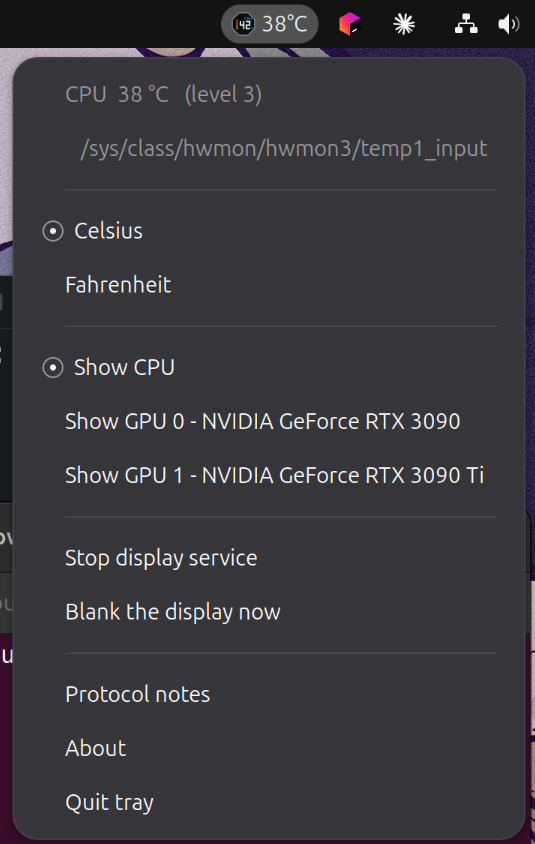
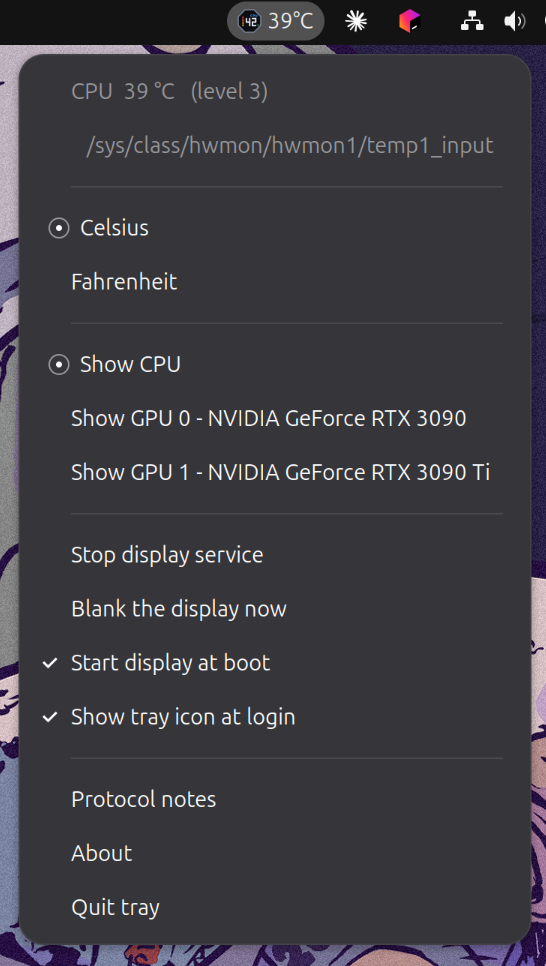
README: refresh the tray screenshot
The old one predated the start-at-boot and start-at-login checkboxes, so the
picture no longer matched the menu it was illustrating. Re-encoded through
GdkPixbuf from raw pixels so no screenshot-tool metadata ships with it, and
the alt text now names what is actually in the image.

diff --git a/README.md b/README.md
@@ -134,7 +134,7 @@ pick](#which-package-should-i-use).
 `montech-hyperflow-tray` puts the temperature in your top bar, with the
 things worth having one click away:
 
-<img src="docs/images/tray-menu.png" alt="The tray menu: temperature, °C/°F, CPU or either GPU, service controls" width="420">
+<img src="docs/images/tray-menu.png" alt="The tray menu: current temperature and level, °C/°F, CPU or either GPU by name, service controls, and start-at-boot and start-at-login checkboxes" width="430">
 
 Each GPU is listed by name, because "Show GPU" is meaningless on a two-card
 machine. Settings are written through polkit, so expect one authentication
